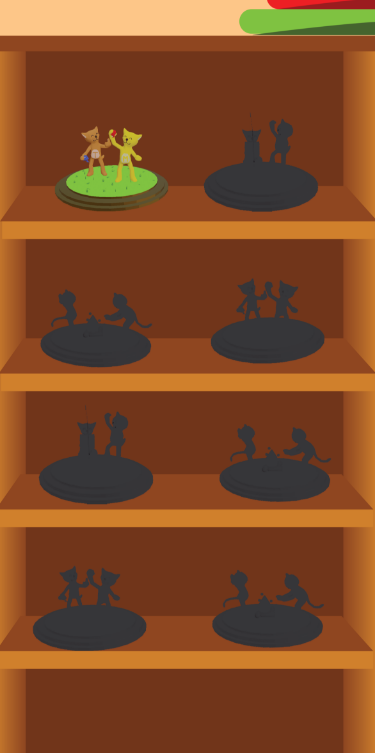
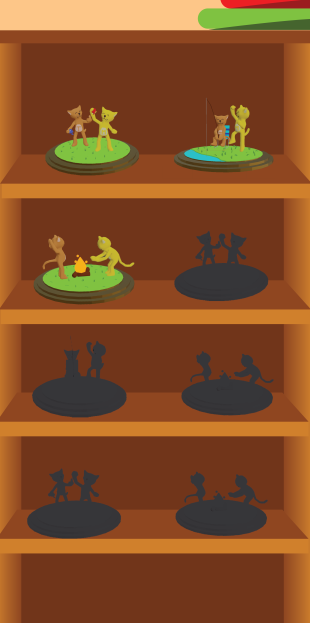
finish story and fix some bugs

diff --git a/assets/css/style.css b/assets/css/style.css
@@ -142,12 +142,14 @@ i {
 .btn-story {
     color: #fff !important;
     font-weight: 600 !important;
+    margin-bottom: 20px;
 }
 
 .btn-container {
     width: 90%;
     display: flex;
     justify-content: space-around;
+    margin-bottom: 20px;
 }
 .btn-action {
     width: 55px;
@@ -180,8 +182,22 @@ i {
     position: absolute;
     top: 180px;
     left: 60px;
-    width: 100px;
-    height: 100px;
+    width: 125px;
+    height: 125px;
+}
+.trophee-link-2 {
+    position: absolute;
+    top: 180px;
+    left: 220px;
+    width: 125px;
+    height: 125px;
+}
+.trophee-link-3 {
+    position: absolute;
+    top: 325px;
+    left: 50px;
+    width: 125px;
+    height: 125px;
 }
 
 .cam-container {
@@ -189,12 +205,18 @@ i {
     overflow: hidden;
 }
 
-.back {
-    z-index: 100;
-    width: 100px;
-    height: 100px;
-    background-color: #fff;
+/* Profile */
+
+.profile-container {
+    width: 85%;
+    margin: 25px auto;
+    padding: 5px;
+    text-align: center;
+    border: 1px solid #fff;
+    box-shadow: 5px 5px 5px 0px rgba(0,0,0,0.75);
+    border-radius: 20px;
     position: relative;
-    top: 0;
-    left: 0;
+    background-color: #fab545;
+    font-size: 1.3em;
+    color: #212529;
 }

diff --git a/assets/js/main.js b/assets/js/main.js
@@ -4,16 +4,18 @@ window.addEventListener('DOMContentLoaded', () => {
     let inputResponse = document.getElementById('response');
     let form = document.getElementById('form');
     
-    var reconnaissance = new (window.webkitSpeechRecognition)();
-    reconnaissance.lang = 'fr-FR';
-    reconnaissance.continuous = true;
-    
-    reconnaissance.onresult = function(event) {
-        inputResponse.value = event.results[0][0].transcript;
-        form.submit();
-    }
-    
-    btnVoice.onclick = function() {
-        reconnaissance.start();
+    if(btnVoice && inputResponse && form) {
+        var reconnaissance = new (window.webkitSpeechRecognition)();
+        reconnaissance.lang = 'fr-FR';
+        reconnaissance.continuous = true;
+        
+        reconnaissance.onresult = function(event) {
+            inputResponse.value = event.results[0][0].transcript;
+            form.submit();
+        }
+        
+        btnVoice.onclick = function() {
+            reconnaissance.start();
+        }
     }
 });

diff --git a/story-10.php b/story-10.php
@@ -5,19 +5,46 @@
     <div class="story-container">
         <h2 class="my-3">Le chat et le poisson</h2>
         <div class="main-container">
-            <div class="img-container">
-                <img src="assets/image/story-1/vignette-5.png" class="rounded d-block mx-auto mb-3" alt="Tom">
-            </div>
+            <form method="POST" id="form">
+                <div class="img-container">
+                    <img src="assets/image/story-1/vignette-9.png" class="rounded d-block mx-auto mb-3" alt="Tom">
+                    <div class="input-group form-story">
+                        <input type="text" class="form-control" id="response" name="response" placeholder="Ta réponse">
+                        <div class="input-group-append">
+                            <button class="btn btn-success" type="submit">
+                                <i class="fa fa-check"></i>
+                            </button>
+                        </div>
+                    </div>
+                </div>
+            </form>
             <div class="text-container">
-                <p>Tom a faim, trouve la 
-couleur des poissons 
-les plus nombreux 
-dans le lac !
-</p>
+                <p>Partage les poissons de Tom en 2. Combien chacun aura de poissons ? <span style="font-size: 0.6em;">(Attention, un poisson est caché !)</span></p>
             </div>
         </div>
-        <a href="story-11.php" class="btn-story btn btn-warning mt-3 w-50">Suivant !</a>
+        <div class="btn-container">
+            <div class="btn-action" id="start">
+                <i class="fa fa-microphone btn-icon"></i>
+            </div>
+            <div class="btn-action">
+                <i class="fa fa-keyboard btn-icon" onclick="document.getElementById('response').focus()"></i>
+            </div>
+        </div>
     </div>
 </div>
 
 <?php require('template/footer.php');?>
+
+<!-- Traitement du post -->
+<?php
+
+if(isset($_POST['response']) && !empty($_POST['response'])) {
+    $response = strtolower($_POST['response']);
+    $isOkay = strpos($response, 'deux');
+
+    if($isOkay !== false) {
+        echo '<script>window.location.href = "story-10-success.php";</script>';
+    } else {
+        echo '<script>window.location.href = "story-false.php?redirect=story-10";</script>';
+    }
+}

diff --git a/story-12.php b/story-12.php
@@ -7,7 +7,7 @@
         <div class="main-container">
             <form method="POST" id="form">
                 <div class="img-container">
-                    <img src="assets/image/story-1/vignette-6.png" class="rounded d-block mx-auto mb-3" alt="Tom">
+                    <img src="assets/image/story-1/vignette-12.png" class="rounded d-block mx-auto mb-3" alt="Tom">
                     <div class="input-group form-story">
                         <input type="text" class="form-control" id="response" name="response" placeholder="Ta réponse">
                         <div class="input-group-append">
@@ -19,7 +19,7 @@
                 </div>
             </form>
             <div class="text-container">
-                <p>Tom a faim. Trouve la couleur des poissons les plus nombreux dans le lac !</p>
+                <p>Pour cela ils ont besoin de faire un feu ? De quoi avons-nous besoin pour en faire un ?</p>
             </div>
         </div>
         <div class="btn-container">
@@ -40,11 +40,11 @@
 
 if(isset($_POST['response']) && !empty($_POST['response'])) {
     $response = strtolower($_POST['response']);
-    $isOkay = strpos($response, 'rouge');
+    $isOkay = strpos($response, 'bois');
 
     if($isOkay !== false) {
-        echo '<script>window.location.href = "story-8-success.php";</script>';
+        echo '<script>window.location.href = "story-12-success.php";</script>';
     } else {
-        echo '<script>window.location.href = "story-false.php?redirect=story-8";</script>';
+        echo '<script>window.location.href = "story-false.php?redirect=story-12";</script>';
     }
 }

diff --git a/trophee-2.php b/trophee-2.php
@@ -3,7 +3,7 @@
 <head>
     <meta charset="UTF-8">
     <meta name="viewport" content="width=device-width, initial-scale=1.0">
-    <title>Trophée 1</title>
+    <title>Trophée 2</title>
     
     <script src="https://aframe.io/releases/0.8.0/aframe.min.js"></script>
     <script src="https://raw.githack.com/AR-js-org/AR.js/master/aframe/build/aframe-ar.js"></script>
@@ -11,13 +11,13 @@
 </head>
 <body style='margin : 0px; overflow: hidden;'>
     <a href="trophees.php">
-        <div class="back" style='z-index: 100; position: absolute; top: 40px; left: 40px;'>
-            <i class="fa fa-arrow-left" style="font-size: 3em; color: #fff;"></i>
+        <div class="back" style='z-index: 100; position: absolute; top: 50px; left: 50px;'>
+            <i class="fa fa-arrow-left" style="font-size: 5em; color: #fff;"></i>
         </div>
     </a>
 	<a-scene embedded arjs='sourceType: webcam;'>
         <a-marker preset="custom" type='pattern' url="assets/arjs/pattern/pattern-Eduka.patt">
-            <a-entity position="0 0 0" obj-model="obj: url(assets/arjs/trophees/2.obj); mtl: url(assets/arjs/trophees/2.mtl)"></a-entity>
+            <a-entity position="0 0 0" obj-model="obj: url(assets/arjs/trophees/1.obj); mtl: url(assets/arjs/trophees/1.mtl)"></a-entity>
         </a-marker>
         <a-entity camera></a-entity>
 	</a-scene>

diff --git a/trophee-3.php b/trophee-3.php
@@ -3,7 +3,7 @@
 <head>
     <meta charset="UTF-8">
     <meta name="viewport" content="width=device-width, initial-scale=1.0">
-    <title>Trophée 1</title>
+    <title>Trophée 3</title>
     
     <script src="https://aframe.io/releases/0.8.0/aframe.min.js"></script>
     <script src="https://raw.githack.com/AR-js-org/AR.js/master/aframe/build/aframe-ar.js"></script>
@@ -11,13 +11,13 @@
 </head>
 <body style='margin : 0px; overflow: hidden;'>
     <a href="trophees.php">
-        <div class="back" style='z-index: 100; position: absolute; top: 40px; left: 40px;'>
-            <i class="fa fa-arrow-left" style="font-size: 3em; color: #fff;"></i>
+        <div class="back" style='z-index: 100; position: absolute; top: 50px; left: 50px;'>
+            <i class="fa fa-arrow-left" style="font-size: 5em; color: #fff;"></i>
         </div>
     </a>
 	<a-scene embedded arjs='sourceType: webcam;'>
         <a-marker preset="custom" type='pattern' url="assets/arjs/pattern/pattern-Eduka.patt">
-            <a-entity position="0 0 0" obj-model="obj: url(assets/arjs/trophees/2.obj); mtl: url(assets/arjs/trophees/2.mtl)"></a-entity>
+            <a-entity position="0 0 0" obj-model="obj: url(assets/arjs/trophees/3.obj); mtl: url(assets/arjs/trophees/3.mtl)"></a-entity>
         </a-marker>
         <a-entity camera></a-entity>
 	</a-scene>

diff --git a/story-10-success.php b/story-10-success.php
@@ -6,18 +6,18 @@
         <h2 class="my-3">Le chat et le poisson</h2>
         <div class="main-container">
             <div class="img-container">
-                <img src="assets/image/story-1/vignette-8.png" class="rounded d-block mx-auto mb-3" alt="Tom">
+                <img src="assets/image/story-1/vignette-10.png" class="rounded d-block mx-auto mb-3" alt="Tom">
             </div>
             <div class="text-container">
                 <p> 
-                AH il y a beaucoup 
-de poisson, j’en veux 
-aussi!
-</p>
+                Tom et Miy ont tous 
+                les deux leur repas 
+                mais il est trop froid 
+                pour eux.
+                </p>
             </div>
         </div>
-        <a href="story-19
-        .php" class="btn-story btn btn-warning mt-3 w-50">Suivant </a>
+        <a href="story-11.php" class="btn-story btn btn-warning mt-3 w-50">Suivant </a>
     </div>
 </div>
 

diff --git a/story-7.php b/story-7.php
@@ -6,19 +6,16 @@
         <h2 class="my-3">Le chat et le poisson</h2>
         <div class="main-container">
             <div class="img-container">
-                <img src="assets/image/story-1/vignette-10.png" class="rounded d-block mx-auto mb-3" alt="Tom">
+                <img src="assets/image/story-1/vignette-5.png" class="rounded d-block mx-auto mb-3" alt="Tom">
             </div>
             <div class="text-container">
-                <p> 
-                Tom et Miy ont tous 
-les deux leur repas 
-mais il est trop froid 
-pour eux.
-</p>
+                <p>Etant gourmand mais 
+                exigeant il ne veut que 
+                certains poissons.
+                </p>
             </div>
         </div>
-        <a href="story-19
-        .php" class="btn-story btn btn-warning mt-3 w-50">Suivant </a>
+        <a href="story-8.php" class="btn-story btn btn-warning mt-3 w-50">Suivant !</a>
     </div>
 </div>
 

diff --git a/story-12-success.php b/story-12-success.php
@@ -6,18 +6,16 @@
         <h2 class="my-3">Le chat et le poisson</h2>
         <div class="main-container">
             <div class="img-container">
-                <img src="assets/image/story-1/vignette-8.png" class="rounded d-block mx-auto mb-3" alt="Tom">
+                <img src="assets/image/story-1/vignette-13.png" class="rounded d-block mx-auto mb-3" alt="Tom">
             </div>
             <div class="text-container">
                 <p> 
-                AH il y a beaucoup 
-de poisson, j’en veux 
-aussi!
-</p>
+                    Oui c'est ça ! Nous
+                    avons besoin de bois pour faire du feu ! Merci à toi !
+                </p>
             </div>
         </div>
-        <a href="story-19
-        .php" class="btn-story btn btn-warning mt-3 w-50">Suivant </a>
+        <a href="index.php" class="btn-story btn btn-success mt-3 w-50">BRAVO TU AS RÉUSSI ! </a>
     </div>
 </div>
 

diff --git a/story-9.php b/story-9.php
@@ -6,16 +6,17 @@
         <h2 class="my-3">Le chat et le poisson</h2>
         <div class="main-container">
             <div class="img-container">
-                <img src="assets/image/story-1/vignette-5.png" class="rounded d-block mx-auto mb-3" alt="Tom">
+                <img src="assets/image/story-1/vignette-11.png" class="rounded d-block mx-auto mb-3" alt="Tom">
             </div>
             <div class="text-container">
-                <p>Etant gourmand mais 
-exigeant il veut que 
-certains poissons.
-</p>
+                <p> 
+                "Il y a beaucoup 
+                de poisson, j’en veux 
+                aussi!" dit Miy.
+                </p>
             </div>
         </div>
-        <a href="story-10.php" class="btn-story btn btn-warning mt-3 w-50">Suivant !</a>
+        <a href="story-10.php" class="btn-story btn btn-warning mt-3 w-50">Suivant </a>
     </div>
 </div>
 

diff --git a/story-6.php b/story-6.php
@@ -6,16 +6,16 @@
         <h2 class="my-3">Le chat et le poisson</h2>
         <div class="main-container">
             <div class="img-container">
-                <img src="assets/image/story-1/vignette-13.png" class="rounded d-block mx-auto mb-3" alt="Tom">
+                <img src="assets/image/story-1/vignette-5.png" class="rounded d-block mx-auto mb-3" alt="Tom">
             </div>
             <div class="text-container">
-                <p> 
-                Oui c'est ça ! nous
-avons besoin du feu !
-</p>
+                <p>Mais Miy le chat
+                arrive et lui aussi a 
+                besoin de ton aide. 
+                </p>
             </div>
         </div>
-        <a href="index.php" class="btn-story btn btn-warning mt-3 w-50">Bravo tu as reussi ! </a>
+        <a href="story-7.php" class="btn-story btn btn-warning mt-3 w-50">Suivant !</a>
     </div>
 </div>
 

diff --git a/story-11.php b/story-11.php
@@ -6,18 +6,13 @@
         <h2 class="my-3">Le chat et le poisson</h2>
         <div class="main-container">
             <div class="img-container">
-                <img src="assets/image/story-1/vignette-5.png" class="rounded d-block mx-auto mb-3" alt="Tom">
+                <img src="assets/image/story-1/vignette-10.png" class="rounded d-block mx-auto mb-3" alt="Tom">
             </div>
             <div class="text-container">
-                <p>En l'occurrence il 
-aimerai l'espèce de 
-poisson la plus 
-nombreuse qu’il y a 
-dans le lac.
-</p>
+                <p>Il faut donc faire cuire les poissons !</p>
             </div>
         </div>
-        <a href="story-11.php" class="btn-story btn btn-warning mt-3 w-50">Suivant !</a>
+        <a href="story-12.php" class="btn-story btn btn-warning mt-3 w-50">Suivant </a>
     </div>
 </div>
 
